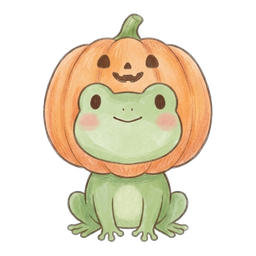
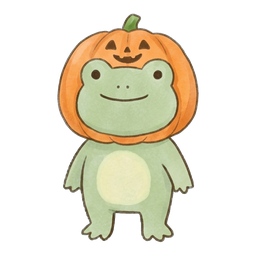
かぼちゃがえるを元のカエルに合わせて作り直して戻す

diff --git a/app.js b/app.js
@@ -105,7 +105,7 @@ const HALLOWEEN_ZOO = [
   { key: 'h_bat', label: 'こうもり' },
   // かぼちゃ単体は画風が合わないので外した（10/23）
   // 絵ができしだい有効にする
-  // { key: 'h_frog', label: 'かぼちゃがえる' }, // 顔が元のカエルと違うので作り直し中
+  { key: 'h_frog', label: 'かぼちゃがえる' },
   // { key: 'h_panda', label: 'ドラキュラぱんだ' },
   // 絵ができしだい有効にする
   // { key: 'h_mummy', label: 'ミイラうさぎ' },
